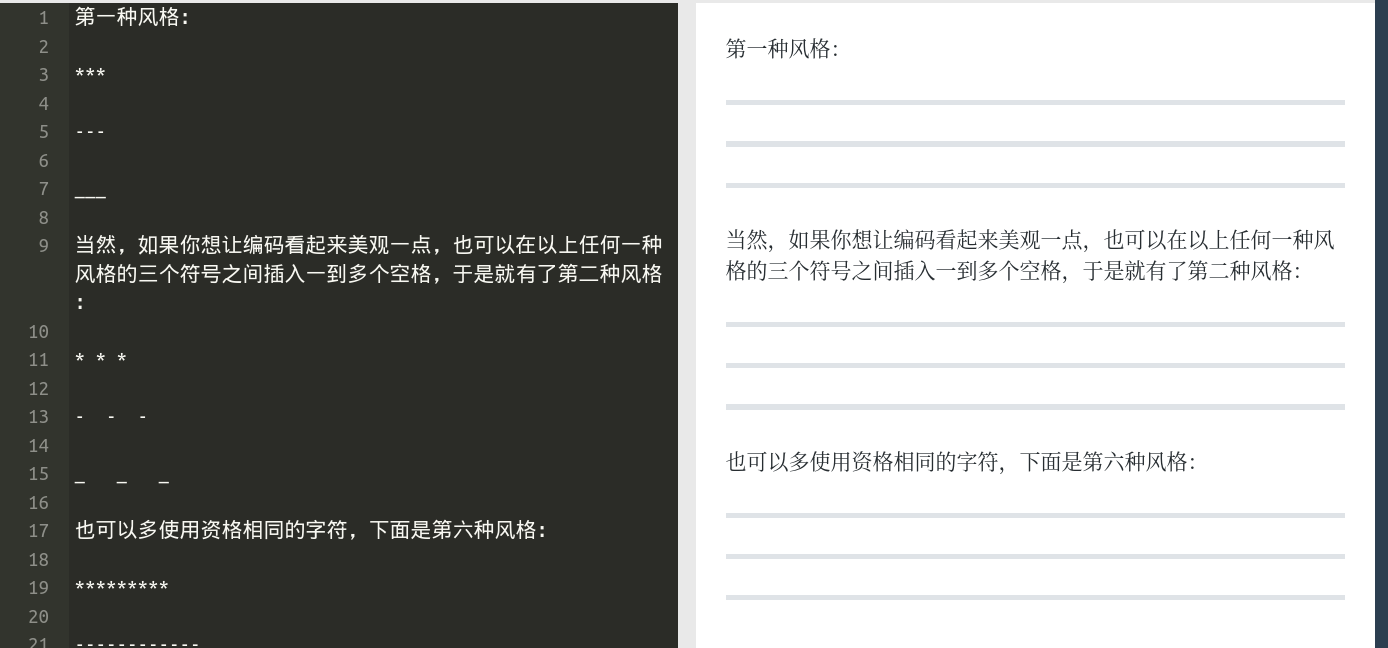
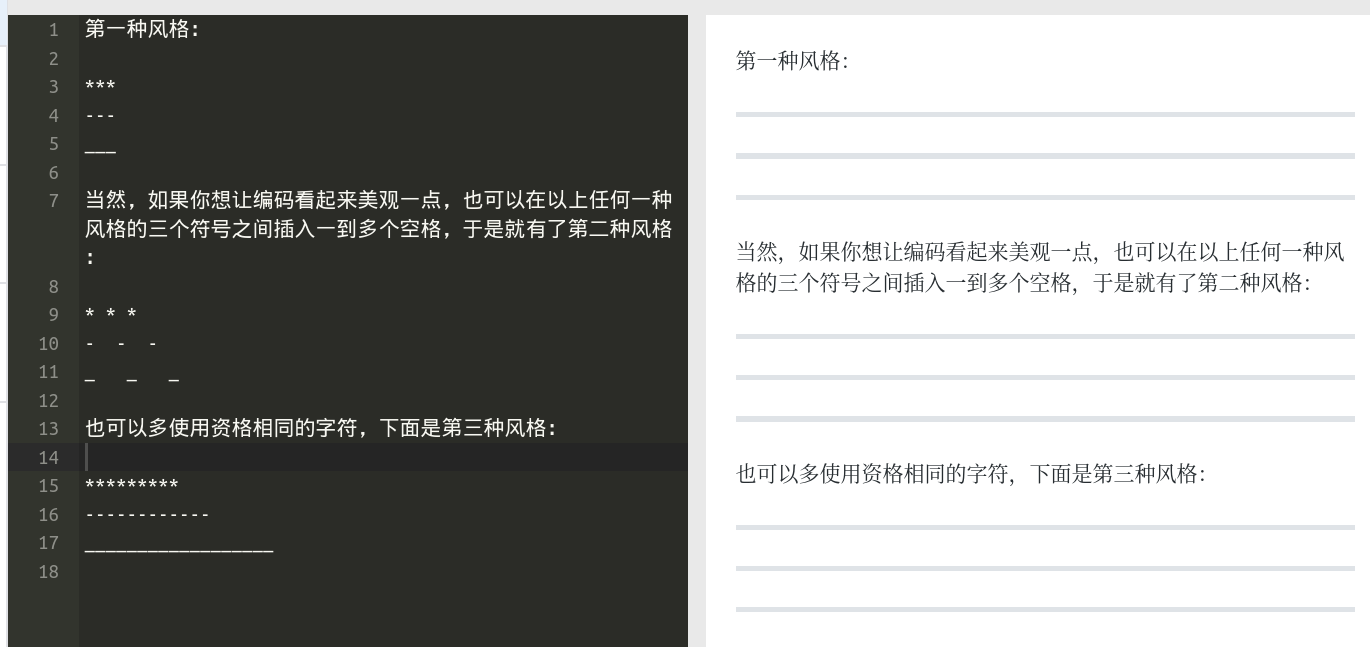
3.2 文字与代码

Changed region(s): [[0.0, 0.0, 1.0, 1.0], [0.0613, 0.8964, 0.1226, 0.9274], [0.0613, 0.2164, 0.092, 0.2473]]

diff --git a/src/03_第三章.md b/src/03_第三章.md
@@ -229,7 +229,7 @@
 | `\.`        | \.      | 英文句点 |
 | `\!`        | \!      | 英文叹号 |
 
-除了以上这些特殊字符之外，我们有时候还会用到一个叫做**分隔线**的文本元素。分隔线有三种不同的符号和三种不同的语法风格：
+除了以上这些特殊字符之外，我们有时候还会用到一个叫做**分隔线**的文本元素。分隔线有三种不同的符号（分别是星号`*`、减号`-`和下划线`_`）以及下面三种不同的语法风格：
 
 ![分割线的三种风格](img/3-15.png)
 
